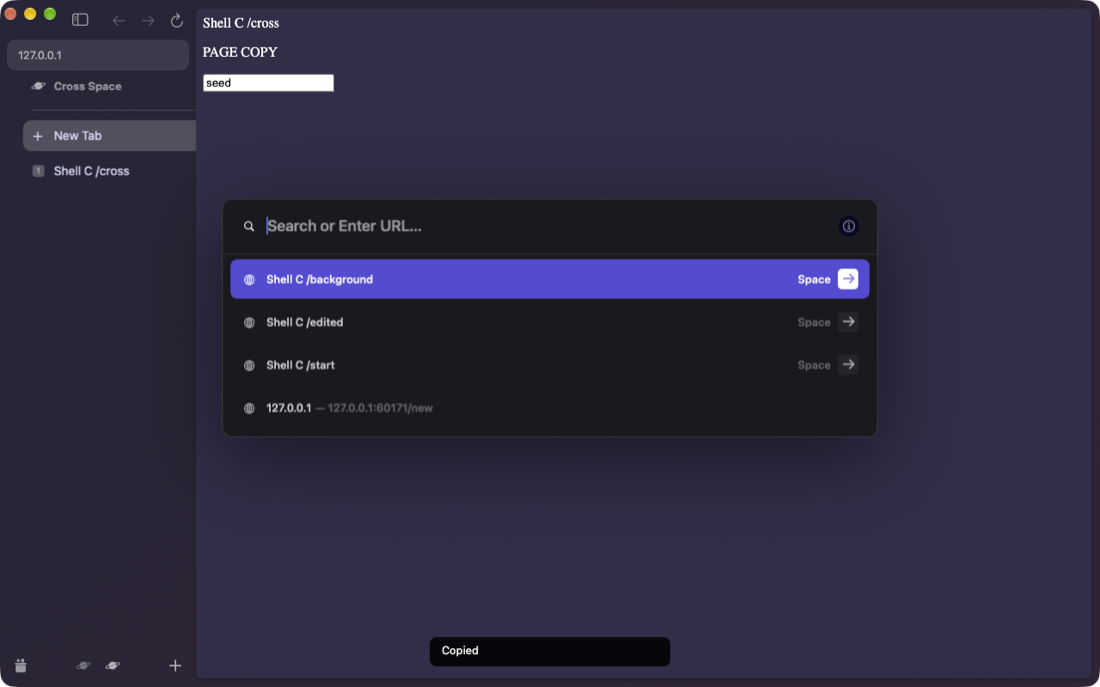
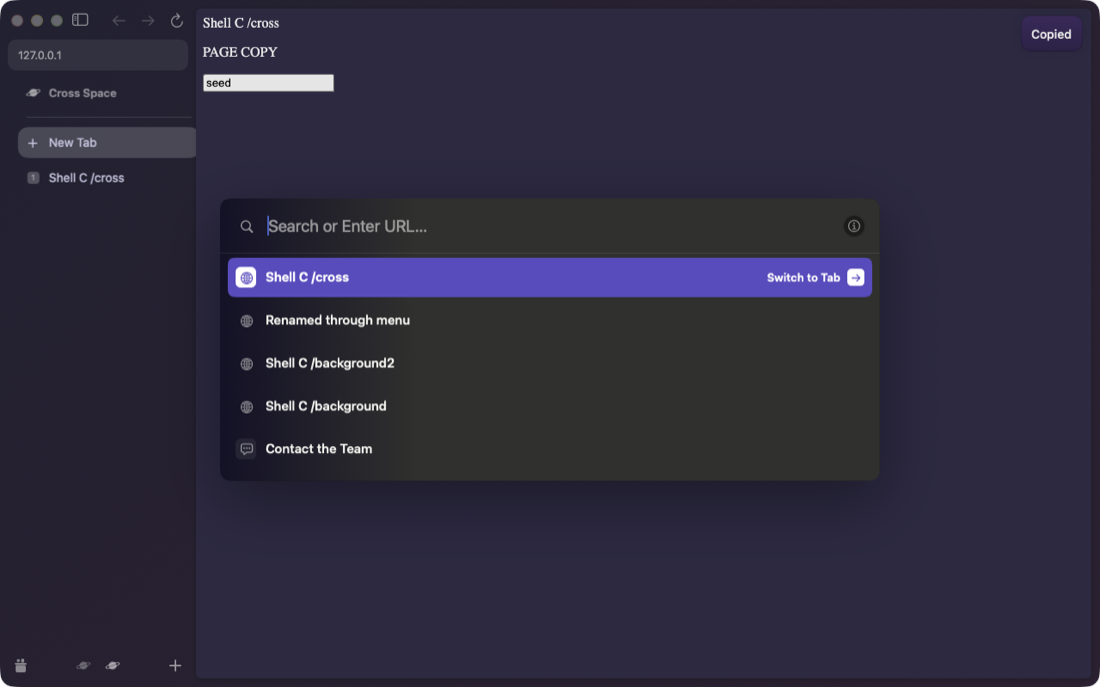
D3 keys: second Cmd+T/Cmd+L closes, Cmd+Return keeps the bar, Option+Return opens a split; e2e rows

diff --git a/Packages/OpenKit/Sources/OpenFeatures/BrowserWindowController.swift b/Packages/OpenKit/Sources/OpenFeatures/BrowserWindowController.swift
@@ -74,6 +74,9 @@ public final class BrowserWindowController: NSWindowController, NSWindowDelegate
     public var ownsAdditionalKeyWindow: ((NSWindow) -> Bool)?
     public var isApplicationActive: (() -> Bool)?
     public var isCommandBarPresented = false
+    /// The command bar overlay (the App adds it). While the bar is open, only views inside it take the
+    /// keyboard unless a mouse click asks: a page created behind the bar (Cmd+Return) must not take it.
+    public weak var commandBarView: NSView?
     public var keyBindingOverrides = KeyBindingStore.empty
     /// The actual key only while dispatching a switcher command; menu actions have none.
     public private(set) var tabSwitcherKeyEvent: NSEvent?
@@ -266,6 +269,11 @@ public final class BrowserWindowController: NSWindowController, NSWindowDelegate
         window.minSize = CGSize(width: 640, height: 480)
         window.collectionBehavior.insert(.fullScreenPrimary); window.acceptsMouseMovedEvents = true
         super.init(window: window); window.contentView = root; window.delegate = self
+        window.refusesFirstResponder = { [weak self] responder in
+            guard let self, self.isCommandBarPresented, let bar = self.commandBarView, let view = responder as? NSView else { return false }
+            if let type = NSApp.currentEvent?.type, [.leftMouseDown, .rightMouseDown, .otherMouseDown].contains(type) { return false }
+            return !(view === bar || view.isDescendant(of: bar))
+        }
         container.onSadTabClose = { [weak self] id in
             guard let self else { return }
             _ = self.sidebar(self.sidebar, didRequest: .close(nodeID: id))
@@ -1256,6 +1264,11 @@ public final class BrowserWindowController: NSWindowController, NSWindowDelegate
 @MainActor
 final class BrowserWindow: SpaceThemeWindow {
     var allowsActivation = true
+    var refusesFirstResponder: ((NSResponder?) -> Bool)?
+    override func makeFirstResponder(_ responder: NSResponder?) -> Bool {
+        if refusesFirstResponder?(responder) == true { return false }
+        return super.makeFirstResponder(responder)
+    }
     override var canBecomeKey: Bool { allowsActivation && super.canBecomeKey }
     override var canBecomeMain: Bool { allowsActivation && super.canBecomeMain }
     var onLayoutPass: (() -> Void)?

diff --git a/Packages/OpenKit/Sources/OpenCommandBar/CommandBarController.swift b/Packages/OpenKit/Sources/OpenCommandBar/CommandBarController.swift
@@ -143,6 +143,13 @@ public final class CommandBarController: NSObject {
             self.togglePrivacyFooter()
             return true
         }
+        // A second Cmd+T closes the New Tab bar; a second Cmd+L closes the address editor (Arc 06-keys, 12c).
+        panel.input.editor.onModeKey = { [weak self] key in
+            guard let self, self.isPresented, let mode = self.request?.mode else { return false }
+            guard (key == "t" && mode == .newTab) || (key == "l" && mode == .editCurrentURL) else { return false }
+            self.dismiss(reason: .programmatic)
+            return true
+        }
         view.onMoveToWindow = { [weak self] in
             guard let self else { return }
             if self.sessionExtensionID != nil, self.view.window == nil { self.dismiss(reason: .programmatic) }
@@ -617,6 +624,21 @@ public final class CommandBarController: NSObject {
             return
         }
         guard let intent else { return }
+        // Cmd+Return on a page or a search opens a background tab and keeps the bar open, the text selected so
+        // the next entry replaces it (Arc 11-returns; plan D3 §2.3, lead decision on the text).
+        if modifiers.contains(.command), !modifiers.contains(.option), [.navigate, .history, .search, .searchSuggestion, .siteSearch].contains(s.kind) {
+            if completion.shown != nil, activeEditor != nil { completion.accept() }
+            delegate?.commandBar(self, perform: intent)
+            guard isPresented else { return }
+            // The new page must not take the keyboard: the field keeps it, all of its text selected.
+            focusSelection = NSRange(location: 0, length: (fieldText as NSString).length)
+            focusInput()
+            DispatchQueue.main.async { [weak self] in
+                guard let self, self.isPresented, self.activeEditor == nil else { return }
+                self.focusInput()
+            }
+            return
+        }
         // Accepted omnibox input is completed by the intent; it must not send onInputCancelled first.
         if s.kind == .extensionSuggestion { endExtensionSession(cancel: false) }
         dismiss(reason: .selection)

diff --git a/App/WebContent/EngineWebContentHostFactory.swift b/App/WebContent/EngineWebContentHostFactory.swift
@@ -713,7 +713,9 @@ final class EngineWebContentHostFactory: NSResponder, WebContentHostFactory {
     if app.engineReady { markVisibleTabsLive() }
     controller.refresh(); mirror.sync(); extensions.focusChanged()
     window?.title = selectedTab?.displayTitle.isEmpty == false ? selectedTab!.displayTitle : (isIncognito ? "Incognito" : "Open")
-    if focus {
+    // An open command bar keeps the keyboard (Cmd+Return adds a background tab, plan D3 §2.3). When the
+    // selection itself changed, contextDidChange closes the bar and its dismissal restores page focus.
+    if focus, commandBarSession?.isPresented != true {
       if let id = selectedTab?.id, let native = welcomeHosts[id] { native.focus() }
       else { selectedContent?.focusPage() }
     }
@@ -1052,6 +1054,18 @@ extension EngineWebContentHostFactory {
       if background { _ = ensureContent(for: tab) }
       else { commandBarNavigationFocus.insert(tab.id) }
     }
+  }
+  /// Option+Return in the command bar: the page opens beside the current page in Split View (Arc 11-returns,
+  /// plan D3 §2.3). A split that already has the maximum number of panes loads it in the focused pane.
+  /// Returns false when no split can be made and nothing is focused (the caller then opens it as usual).
+  @discardableResult
+  func openFromCommandBarInSplit(_ url: URL) -> Bool {
+    guard !WelcomeTab.isInternal(url), let splits = controller?.splitController, let current = splits.focusedTab else { return false }
+    guard splits.canAddPane else { navigateFromCommandBar(url, current: true); return true }
+    guard let tab = openNewTab(url: url, background: true, opener: current.id, typed: true) else { return false }
+    _ = ensureContent(for: tab)
+    splits.openInSplit(tab.id)
+    return true
   }
   private func finishCommandBarNavigation(_ page: OEWebContent) {
     guard let id = tabID(for: page), commandBarNavigationFocus.remove(id) != nil else { return }

diff --git a/Packages/OpenKit/Sources/OpenCommandBar/InputRowView.swift b/Packages/OpenKit/Sources/OpenCommandBar/InputRowView.swift
@@ -51,6 +51,8 @@ final class CommandBarFieldEditor: NSTextView {
     var isUpdatingComposition: Bool { compositionDepth > 0 }
     var onCompositionEnded: (() -> Void)?
     var onHelp: (() -> Bool)?
+    /// Cmd+T or Cmd+L while the bar has the keyboard: the key that opened this mode closes it (plan D3 §2.3).
+    var onModeKey: ((Character) -> Bool)?
 
     // Inline completion hooks (CompletionSession, commandbar-completion §4.1.5–§4.1.6).
 
@@ -180,10 +182,15 @@ final class CommandBarFieldEditor: NSTextView {
     var onShiftDelete: ((NSEvent.ModifierFlags) -> Bool)?
     var onModifiedReturn: ((NSEvent.ModifierFlags) -> Bool)?
     private func handleHelpKey(_ event: NSEvent) -> Bool {
-        if [36, 76].contains(event.keyCode), event.modifierFlags.contains(.command), !hasMarkedText(), !isUpdatingComposition, onModifiedReturn?(event.modifierFlags) == true { return true }
+        // Cmd+Return and Option+Return carry their modifiers from this event (plan D3 §2.3).
+        if [36, 76].contains(event.keyCode), !event.modifierFlags.intersection([.command, .option]).isEmpty, !hasMarkedText(), !isUpdatingComposition,
+           onModifiedReturn?(event.modifierFlags) == true { return true }
         if !hasMarkedText(), !isUpdatingComposition,
            event.modifierFlags.intersection([.command, .option, .shift, .control]) == .command,
            event.charactersIgnoringModifiers?.lowercased() == "i", onHelp?() == true { return true }
+        if !hasMarkedText(), !isUpdatingComposition,
+           event.modifierFlags.intersection([.command, .option, .shift, .control]) == .command,
+           let key = event.charactersIgnoringModifiers?.lowercased().first, key == "t" || key == "l", onModeKey?(key) == true { return true }
         return false
     }
 

diff --git a/App/CommandBar/AppCommandBarDelegate.swift b/App/CommandBar/AppCommandBarDelegate.swift
@@ -82,6 +82,7 @@ final class AppCommandBarSession: CommandBarDelegate {
       bar.view.frame = windowController.contentView.bounds
       bar.view.autoresizingMask = [.width, .height]
       windowController.contentView.addSubview(bar.view)
+      windowController.commandBarView = bar.view
     }
     guard let bar = controller else { return }
     if WelcomeTab.matches(factory.selectedTab?.url) {
@@ -136,6 +137,8 @@ final class AppCommandBarSession: CommandBarDelegate {
     switch intent {
     case .open(let url, let destination, let modifiers),
          .search(_, let url, _, let destination, let modifiers):
+      // Option+Return: beside the current page in Split View (plan D3 §2.3).
+      if modifiers.contains(.option), !modifiers.contains(.command), factory.openFromCommandBarInSplit(url) { break }
       factory.navigateFromCommandBar(url, current: destination == .currentTab, background: modifiers.contains(.command))
     case .switchToTab(let id, let space): factory.selectTabForCommand(id, spaceID: space)
     case .runAction(let id, let space): factory.controller?.performCommand(AppCommand.canonicalID(id), payload: space?.description)

diff --git a/tools/e2e/engine_e2e.py b/tools/e2e/engine_e2e.py
@@ -8813,11 +8813,55 @@ def commandbar_checks(factory, results, tmp, config):
         results['native_field_undo_preserves_model'] = {'ok': bool(native_undone) and state()['presented'] and len(app.call('tabs')) == before_text_undo, 'before':native_before, 'after':state(), 'route':native_route}
         press('escape'); time.sleep(.25)
         counts = app.call('host-counts')['created']; selected_before = app.call('window-state')['selected']
-        bar('t'); type_query(origin + '/background'); press('return', modifiers=['cmd'])
+        bar('t'); type_query(origin + '/background'); before_return = dict(state(), focus=app.call('focus-state')); press('return', modifiers=['cmd'])
         background = wait_until(lambda: next((t for t in app.call('tabs') if t['url'] == origin + '/background'), None), step=.1)
         assert background, app.call('tabs')
+        # Cmd+Return keeps the bar open with the text selected (Arc 11-returns; plan D3 §2.3). Read the bar
+        # before any page call: automation waits and evaluations on the new page are not user input.
+        kept = wait_until(lambda: (lambda st: st if st['presented'] and st['range'] == [0, len(st['fieldText'])] and st['fieldText'] else None)(state()), timeout=3, step=.05)
+        kept_state = dict(state(), focus=app.call('focus-state'))
+        # A second Cmd+Return on the next entry adds a second background tab; the bar still stays.
+        type_query(origin + '/background2'); press('return', modifiers=['cmd'])
+        second = wait_until(lambda: next((t for t in app.call('tabs') if t['url'] == origin + '/background2'), None), step=.1)
+        twice_state = state()
+        press('escape'); wait_until(lambda: not state()['presented'], timeout=3, step=.05)
         app.call('wait', tab=background['id'])
-        results['command_return_background'] = {'ok': app.call('window-state')['selected'] == selected_before and app.call('host-counts')['created'] == counts + 1 and app.eval(background['id'], 'document.title') == 'Shell C /background'}
+        results['command_return_background'] = {'ok': app.call('window-state')['selected'] == selected_before and app.call('host-counts')['created'] >= counts + 1
+            and app.eval(background['id'], 'document.title') == 'Shell C /background' and bool(kept), 'bar': kept_state, 'beforeReturn': before_return}
+        results['command_return_twice'] = {'ok': bool(second) and twice_state['presented'] and app.call('window-state')['selected'] == selected_before
+            and app.call('host-counts')['created'] == counts + 2, 'bar': twice_state}
+        # A second Cmd+T closes the New Tab bar; a second Cmd+L closes the address editor (Arc 06-keys, 12c).
+        bar('t', 'window'); press('t', modifiers=['cmd'], route='window')
+        closed_t = wait_until(lambda: not state()['presented'], timeout=3, step=.05)
+        results['cmd_t_twice_closes'] = {'ok': bool(closed_t), 'bar': state()}
+        edit = bar('l', 'window')
+        field = app.call('window-state').get('sidebarFrame')
+        frame = edit['panelFrame']
+        results['cmd_l_inline_anchor'] = {'ok': edit['presentation'] == 'anchored' and frame[0] == 9 and frame[1] == 45
+            and frame[2] == max(340, app.call('window-state')['sidebarWidth'] - 18), 'panelFrame': frame, 'sidebar': field}
+        press('l', modifiers=['cmd'], route='window')
+        closed_l = wait_until(lambda: not state()['presented'], timeout=3, step=.05)
+        results['cmd_l_twice_closes'] = {'ok': bool(closed_l), 'bar': state()}
+        # Option+Return opens the page beside the current page in Split View (Arc 11-returns).
+        tabs_before = len(app.call('tabs'))
+        bar('l', 'window'); type_query(origin + '/beside'); press('return', modifiers=['option'])
+        split_shown = wait_until(lambda: (lambda w: w if len(w['shownPages']) == 2 else None)(app.call('window-state')), timeout=5, step=.1)
+        beside = next((t for t in app.call('tabs') if t['url'] == origin + '/beside'), None)
+        results['option_return_split'] = {'ok': bool(split_shown) and bool(beside) and len(app.call('tabs')) == tabs_before + 1 and not state()['presented'],
+            'window': app.call('window-state')}
+        # Failure case: a split at its maximum (4 panes) cannot grow; Option+Return loads in the focused pane.
+        for i in range(2):
+            bar('l', 'window'); type_query(origin + '/pane%d' % i); press('return', modifiers=['option'])
+            wait_until(lambda: len(app.call('window-state')['shownPages']) == 3 + i, timeout=5, step=.1)
+        full = app.call('window-state'); tabs_full = len(app.call('tabs'))
+        bar('l', 'window'); type_query(origin + '/focused'); press('return', modifiers=['option'])
+        loaded = wait_until(lambda: any(t['url'] == origin + '/focused' for t in app.call('tabs')), timeout=5, step=.1)
+        results['option_return_full_split_loads_focused'] = {'ok': len(full['shownPages']) == 4 and bool(loaded) and len(app.call('tabs')) == tabs_full
+            and len(app.call('window-state')['shownPages']) == 4, 'window': app.call('window-state')}
+        for t in app.call('tabs'):
+            if t['id'] != new['id'] and (t['url'].startswith(origin + '/pane') or t['url'] in (origin + '/beside', origin + '/focused')):
+                app.call('close', tab=t['id'])
+        app.call('select', tab=new['id']); app.call('focus', tab=new['id'])
         for action, query, expected in [('pin-tab','Pin Tab','pinned'),('unpin-tab','Unpin Tab','today')]:
             bar('t'); actions = type_query(query); assert actions, state()
             index = next(i for i,r in enumerate(actions['rows']) if r['action'] == action)
